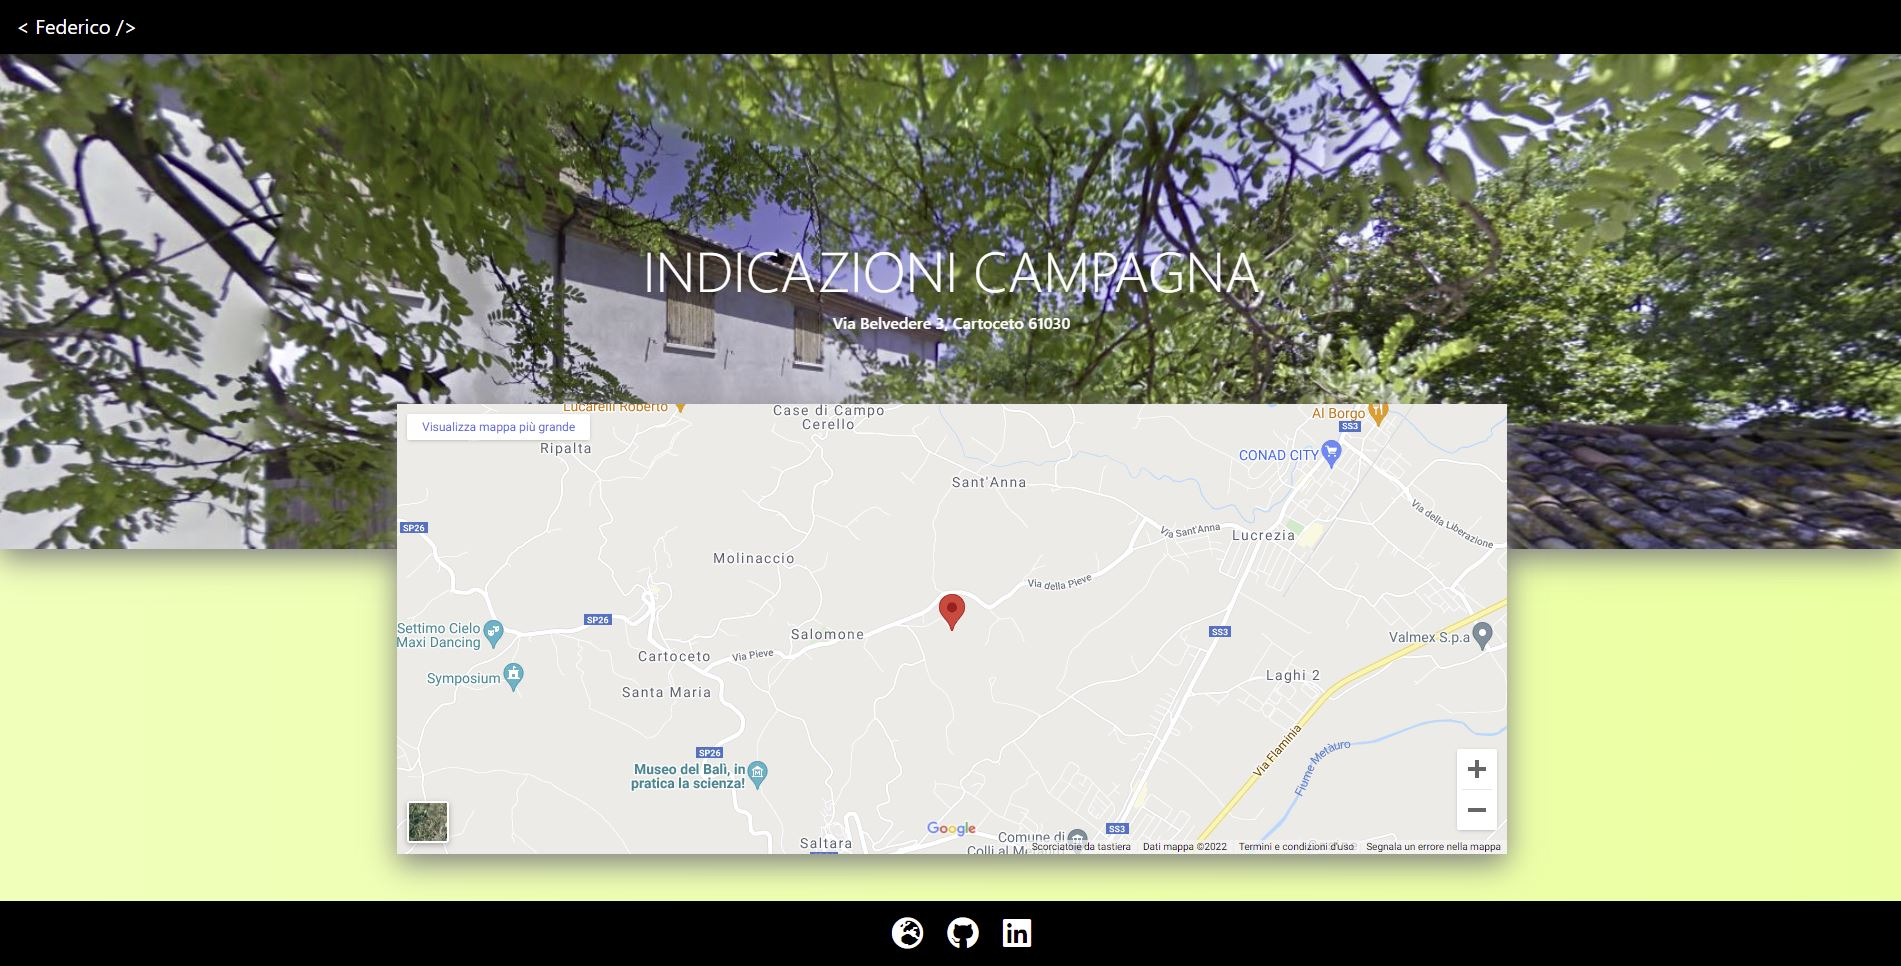
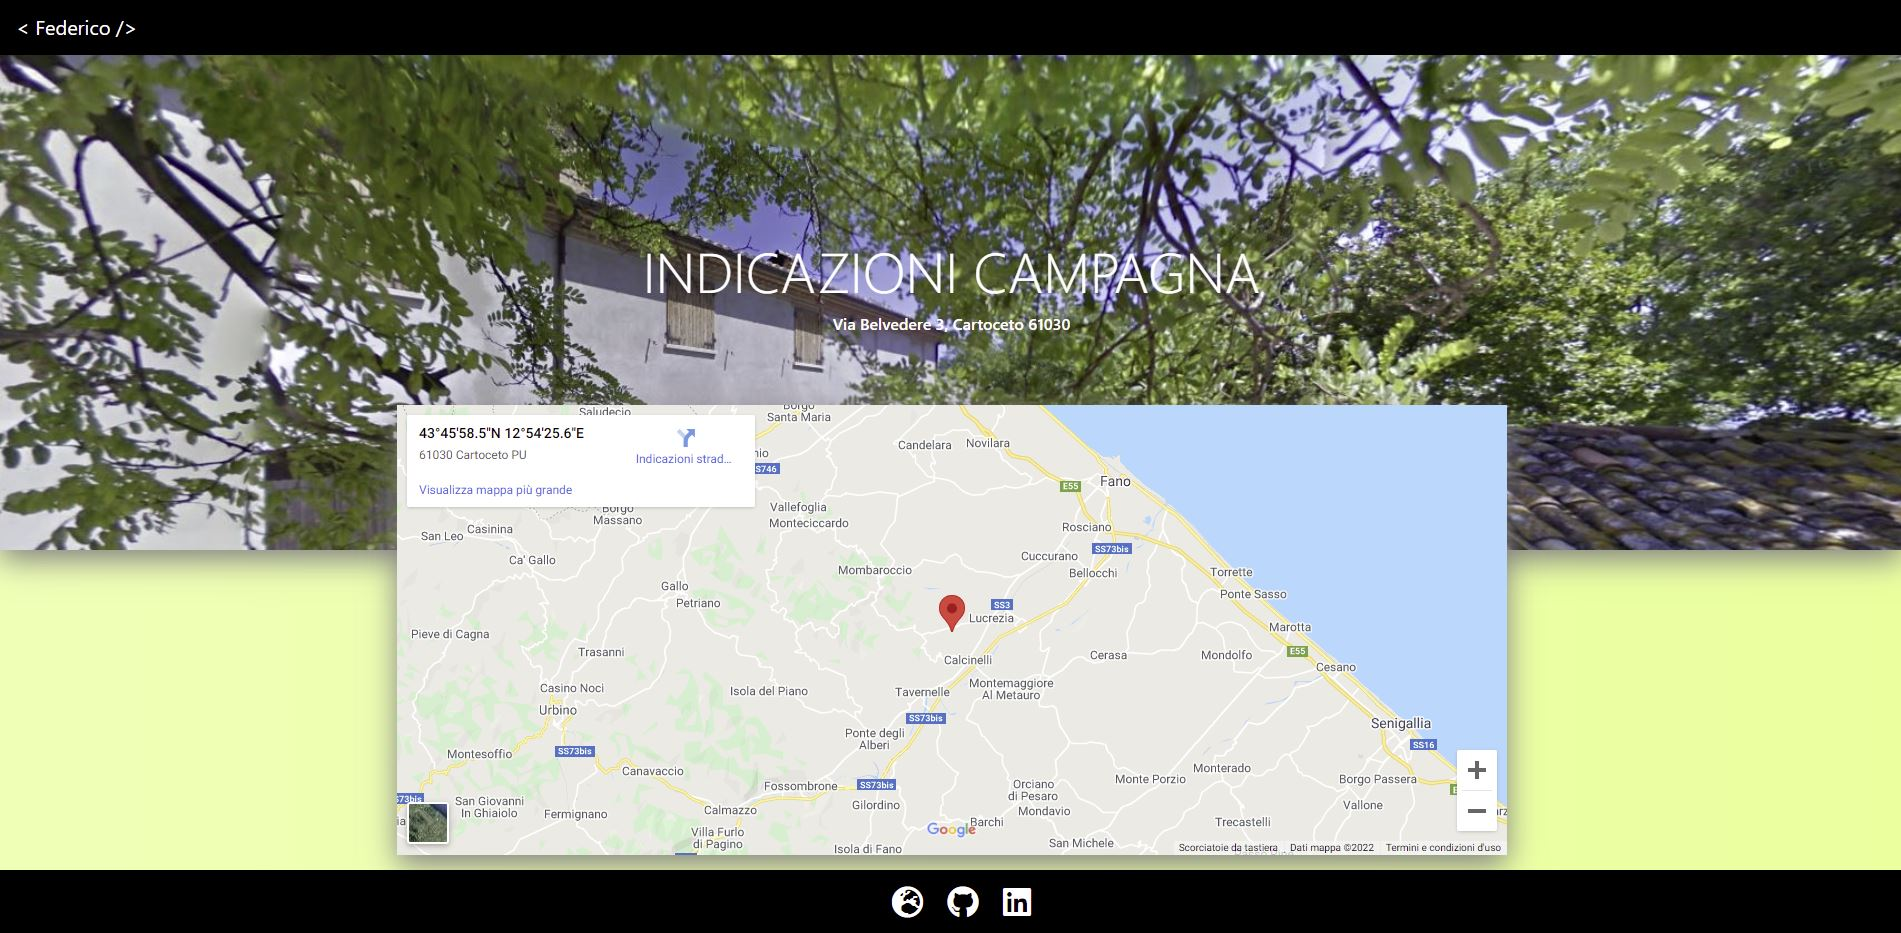
improve map

diff --git a/index.html b/index.html
@@ -57,19 +57,13 @@
     <div class="container mx-auto" data-aos="fade-up" id="Mappa">
       <div class="map-responsive shadow-lg">
       <!--Google map-->
-        <iframe class=""
-          src="https://www.google.com/maps/embed?pb=!1m18!1m12!1m3!1d16776.373030904255!2d12.895949112818643!3d43.76777525424418!2m3!1f0!2f0!3f0!3m2!1i1024!2i768!4f13.1!3m3!1m2!1s0x0%3A0x0!2zNDPCsDQ1JzU4LjUiTiAxMsKwNTQnMjUuNiJF!5e0!3m2!1sit!2sit!4v1625865311483!5m2!1sit!2sit"
-          loading="lazy" frameborder="0" allowfullscreen>
-        </iframe>
+        <iframe src="https://maps.google.com/maps?q=43%C2%B045'58.5%22N%2012%C2%B054'25.6%22E&t=&z=11&ie=UTF8&iwloc=&output=embed" loading="lazy" frameborder="0" allowfullscreen></iframe>
       </div>
     </div>
 
     <div class="container col-xxl-8 px-4 pb-5" id="Indicazioni">
       <div class="row flex-lg-row-reverse align-items-center g-5 py-5">
-        <div class="col-10 col-sm-8 col-lg-6 my-4 mx-auto"  data-aos="fade-left">
-          <img src="./files/images/La Costa.jpg" class="d-block mx-lg-auto img-fluid" alt="Bootstrap Themes" width="700" height="500" loading="lazy">
-        </div>
-        <div class="it-list-wrapper col-lg-6" data-aos="fade-right">
+        <div class="it-list-wrapper col-lg-6" data-aos="fade-left">
           <strong>Arrivate a Fano</strong>
           <ol class="it-list">
               <li>
@@ -85,6 +79,9 @@
           </ol>
           <strong>Alternativa dall'autostrada</strong>
           <p>Mettete il navigatore fino al Ristorante La Costa (Cartoceto PU). Una voltà lì proseguite dal punto 4.</p>
+        </div>
+        <div class="col-10 col-sm-8 col-lg-6 my-4 mx-auto" data-aos="fade-right">
+          <img src="./files/images/La Costa.jpg" class="d-block mx-lg-auto img-fluid" alt="Bootstrap Themes" width="700" height="500" loading="lazy">
         </div>
       </div>
     </div>
